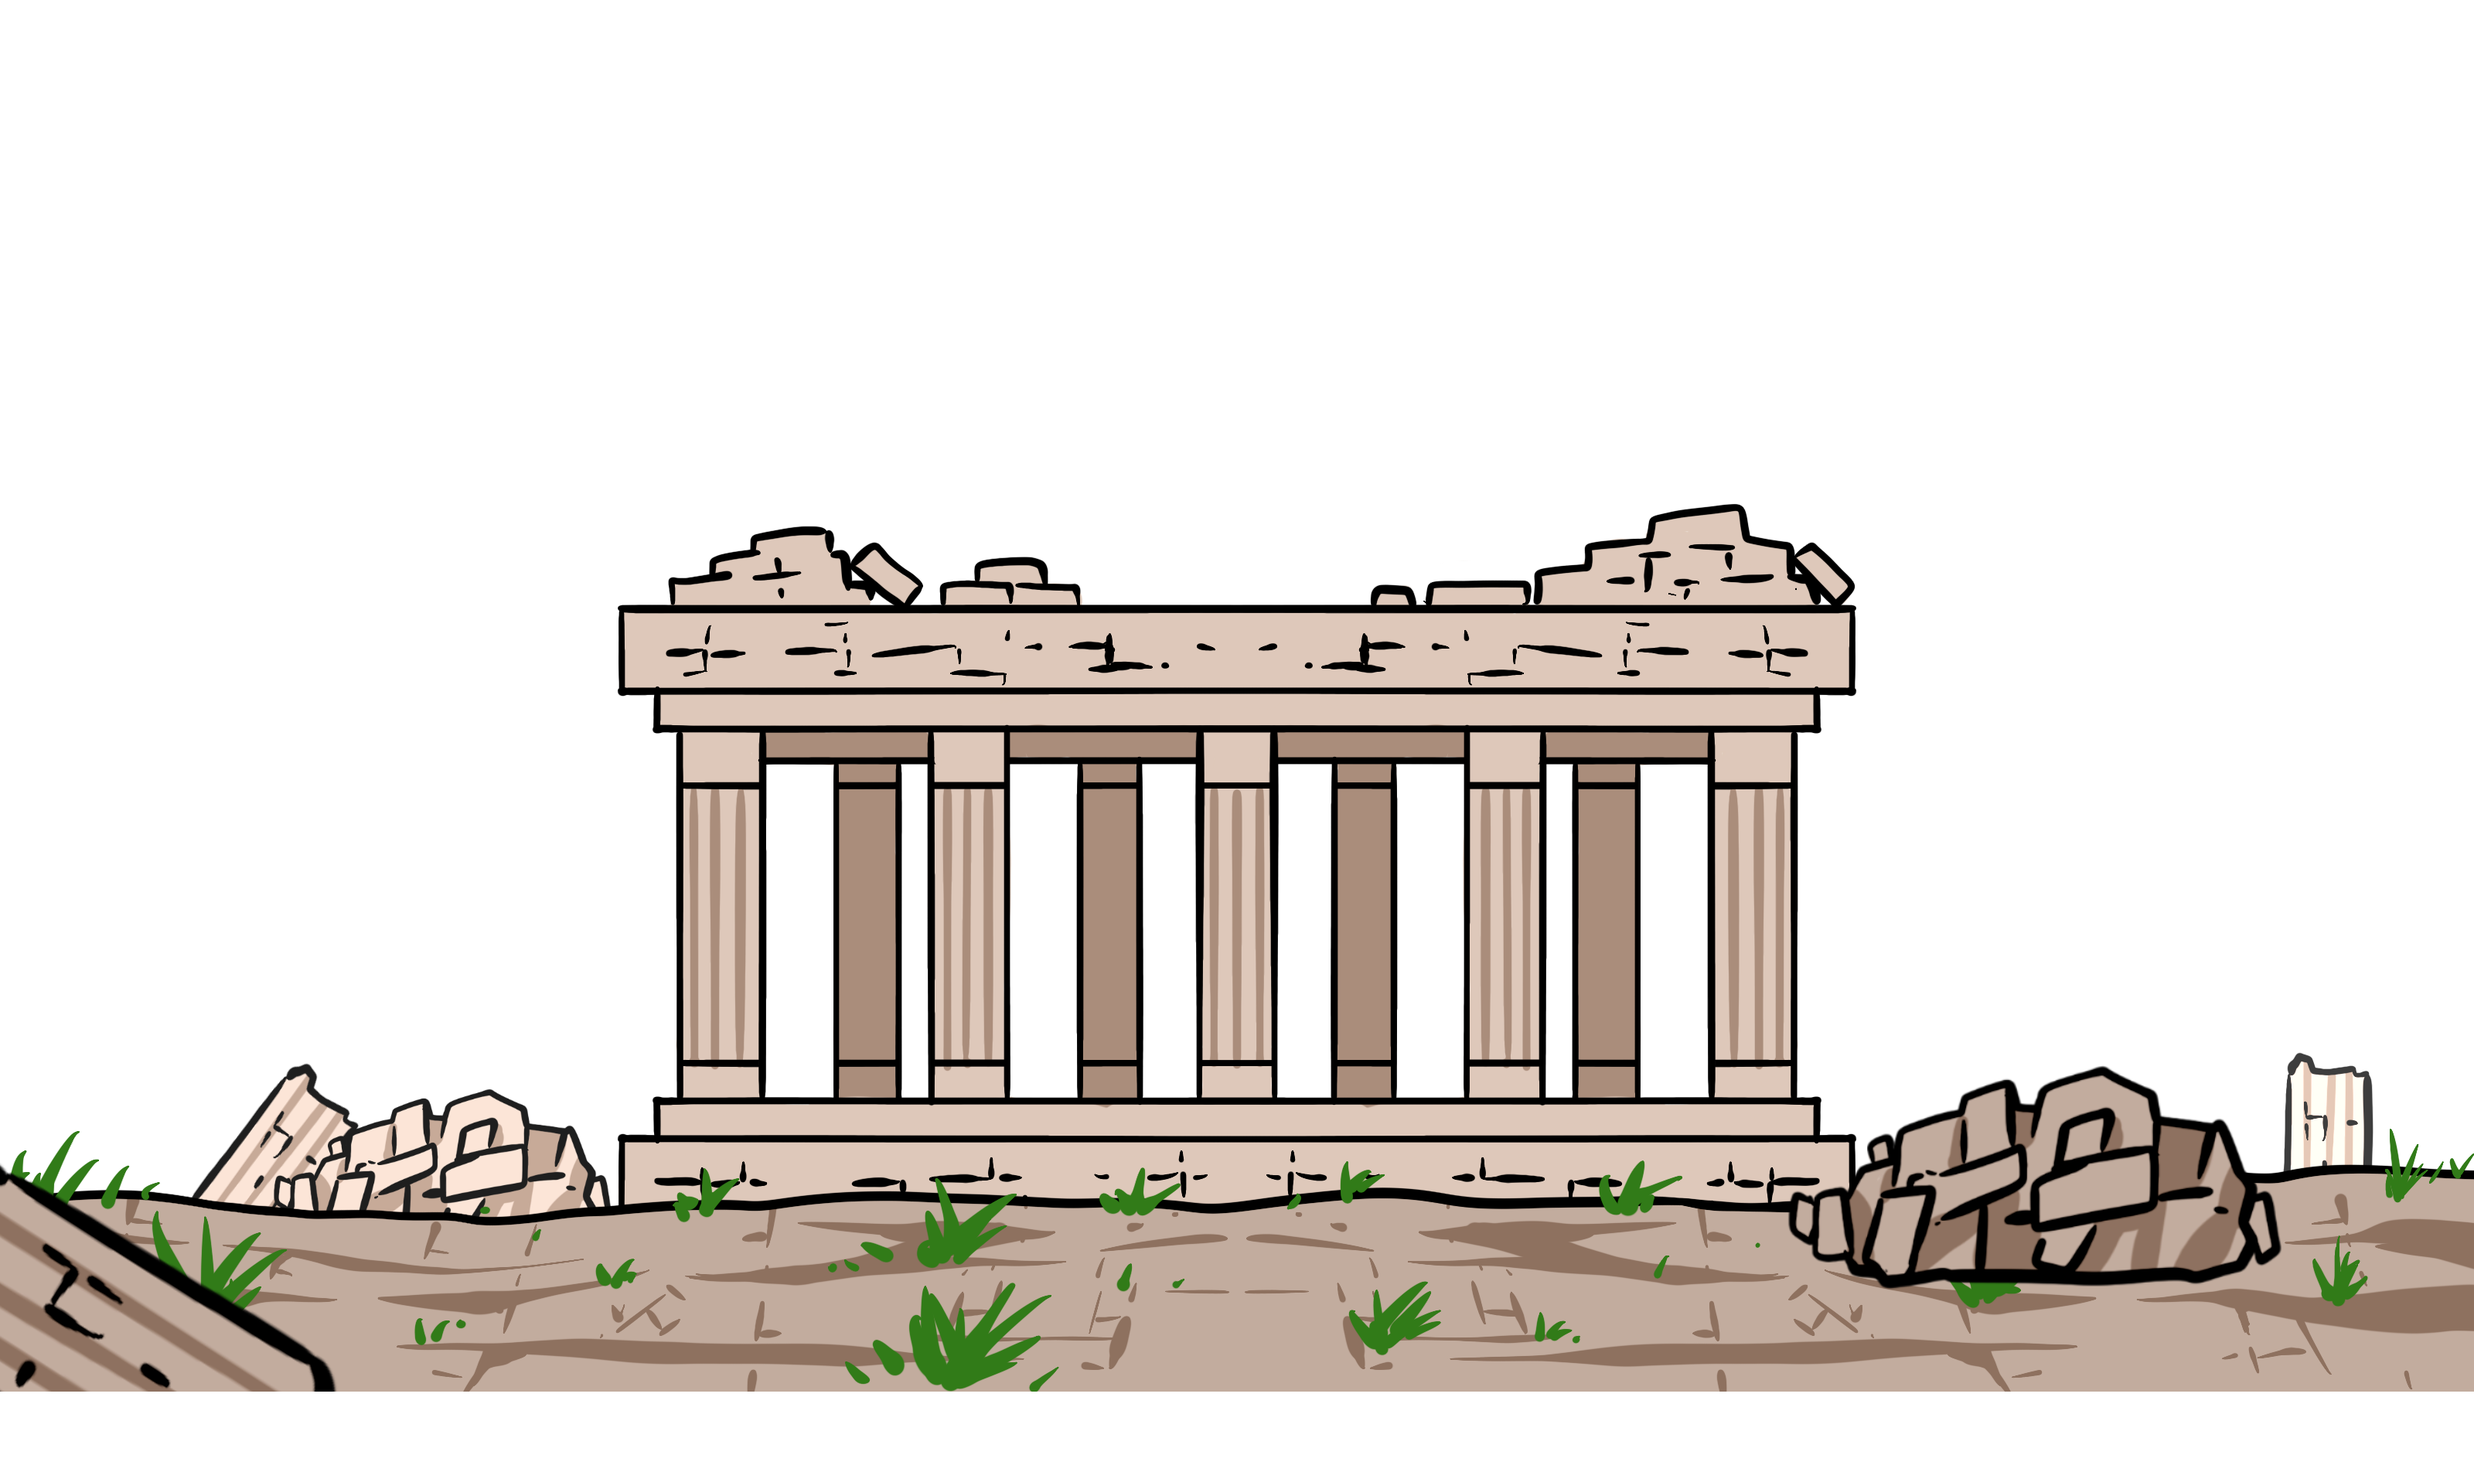
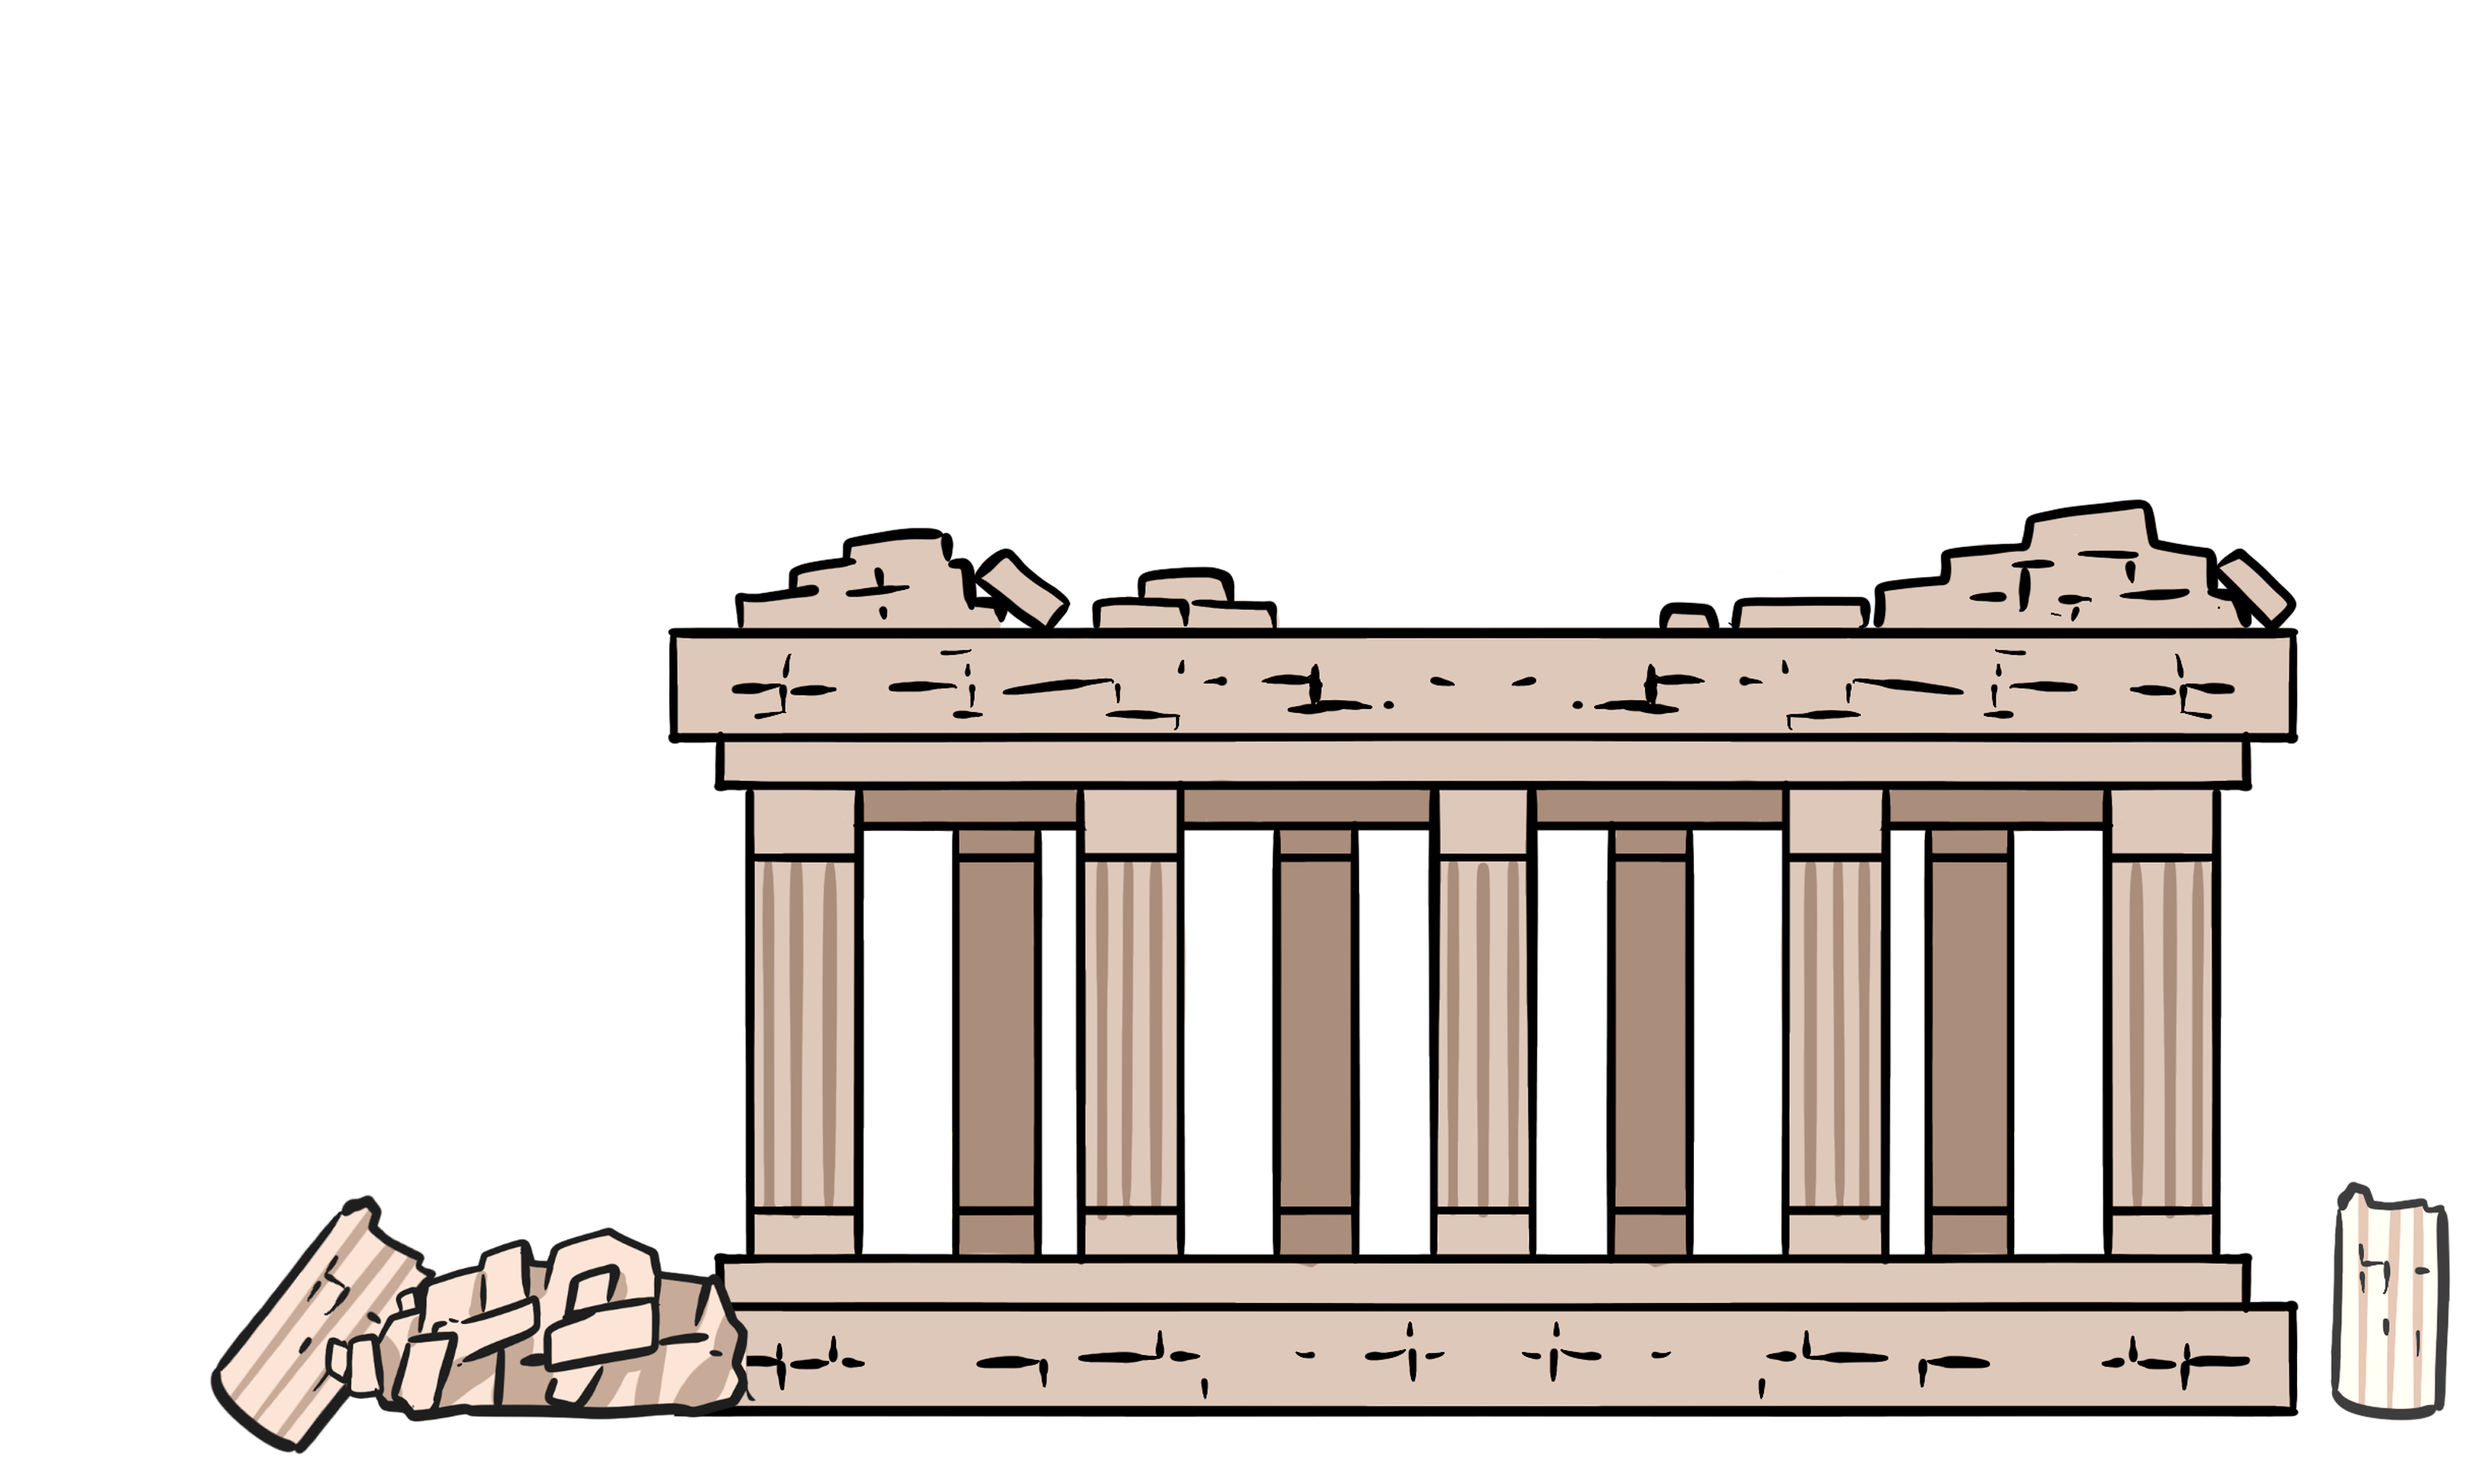
redraw and change position bg
วาด bg ให้ใหม่ แบบไม่ใช่ panorama และเปลั้ยนตำแหน่ง bg

diff --git a/css/styles.css b/css/styles.css
@@ -145,28 +145,36 @@ section {
 }
 
 #page1[data-season="s-1896"] {
+  background-image: url(/background/กรีซ.png);
+  background-position: bottom 60px center ;
 
 
 }
 
 #page2[data-season="r-1896"] {
-  background: hsl(0, 100%, 40%);
+  background-image: url(/background/กรีซ2.png);
+  background-position:bottom 60px center ;
 }
 
 #page3[data-season="s-1900"] {
-  background: hsl(0, 100%, 35%);
+  background-image: url(/background/ฝรั่งเศส.png);
+  background-position:bottom 45px center ;
 }
 
 #page4[data-season="r-1900"] {
-  background: hsl(0, 100%, 30%);
+  background-image: url(/background/ฝรั่งเศส2.png);
+  background-position:bottom 45px center ;
 }
 
+
 #page5[data-season="s-1948"] {
-  background: hsl(0, 100%, 25%);
+  background-image: url(/background/ลอนดอน.png);
+  background-position:bottom 45px center ;
 }
 
 #page6[data-season="r-1948"] {
-  background: hsl(0, 100%, 20%);
+  background-image: url(/background/ลอนดอน2.png);
+  background-position:bottom 45px center ;
 }
 
 #page7[data-season="s-2000"] {
@@ -178,7 +186,9 @@ section {
 }
 
 #page9[data-season="s-2020"] {
-  background: hsl(0, 100%, 5%);
+  background-image: url(/background/ญี่ปุ่น.png);
+  background-size: 1100px 619px;
+  background-position:bottom 95px center ;
 }
 
 #page10[data-season="r-2020"] {
@@ -192,29 +202,35 @@ section {
 }
 
 #page1[data-season="w-1924"] {
-  background-image: url("/img/landmark/france.png");
-  background-size: 100%;
-  background-position: 0px 300px;
+  background-image: url(/background/ฝรั่งเศส.png);
+  background-position:bottom 45px center ;
 }
 
 #page2[data-season="r-1924"] {
-  background: hsl(200, 100%, 40%);
+  background-image: url(/background/ฝรั่งเศส2.png);
+  background-position:bottom 45px center ;
 }
 
 #page3[data-season="w-1936"] {
-  background: hsl(200, 100%, 35%);
+  background-image: url(/background/เยอรมัน.png);
+  background-size: 1200px 645px;
+  background-position:bottom 95px center ;
 }
-
 #page4[data-season="r-1936"] {
-  background: hsl(200, 100%, 30%);
+  background-image: url(/background/เยอรมัน.png);
+  background-position:bottom 45px center ;
 }
 
 #page5[data-season="w-1948"] {
-  background: hsl(200, 100%, 25%);
+  background-image: url(/background/ซวิต.png);
+  background-size: 900px 506px;
+  background-position:bottom 90px center ;
 }
 
 #page6[data-season="d-1948"] {
-  background: hsl(200, 100%, 20%);
+  background-image: url(/background/ซวิต2.png);
+  background-size: 900px 506px;
+  background-position:bottom 90px center ;
 }
 
 #page7[data-season="w-1984"] {
@@ -226,11 +242,15 @@ section {
 }
 
 #page9[data-season="w-2022"] {
-  background: hsl(200, 100%, 5%);
+  background-image: url(/background/จีนปักกิ่ง.png);
+  background-size: 1368px 788px;
+  background-position:bottom  center ;
 }
 
 #page10[data-season="r-2022"] {
-  background: hsl(200, 100%, 0%);
+  background-image: url(/background/จีนปักกิ่ง2.png);
+  background-size: 1368px 788px;
+  background-position:bottom  center ;
 }
 /****************************** Winter ******************************/
 
